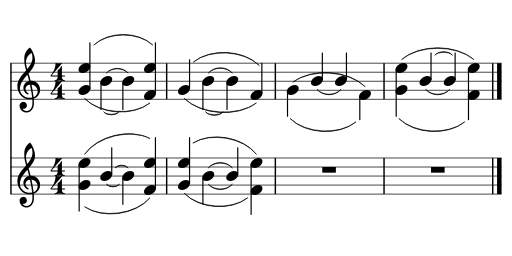
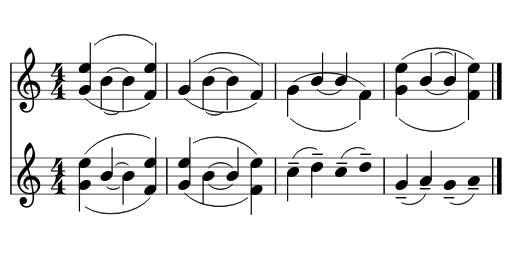
fix #27781: wrong articulation position on stemless notes
Former-commit-id: 95f5cb59a396f1657d9da4cd4748a965c8d9cae0

diff --git a/libmscore/chord.cpp b/libmscore/chord.cpp
@@ -2485,7 +2485,11 @@ QPointF Chord::layoutArticulation(Articulation* a)
             QPointF pos;                        // computed articulation position
             if (stem())                         // if there is a stem, assume artic. will be beyond the stem
                   pos = stem()->hookPos();
-
+            else {                              // otherwise, compute horizontal position as if there were a stem
+                  pos.rx() = stemPosX();
+                  if (!_up)
+                        pos.rx() += point(score()->styleS(StyleIdx::stemWidth));
+                  }
             a->layout();
 
             qreal _spatium2 = _spatium * .5;

diff --git a/libmscore/slur.cpp b/libmscore/slur.cpp
@@ -898,6 +898,8 @@ void Slur::slurPos(SlurPos* sp)
                         yo = fixArticulations(yo, sc, __up);
                   }
             }
+      else if (sc->up() != _up)
+            yo = fixArticulations(yo, sc, __up);
 
       if (sa1 == SlurAnchor::NONE)
             sp->p1 += QPointF(xo, yo);
@@ -960,6 +962,8 @@ void Slur::slurPos(SlurPos* sp)
             else if (ec->up() != _up)
                   yo = fixArticulations(yo, ec, __up);
             }
+      else if (ec->up() != _up)
+            yo = fixArticulations(yo, ec, __up);
 
       if (sa2 == SlurAnchor::NONE)
             sp->p2 += QPointF(xo, yo);
